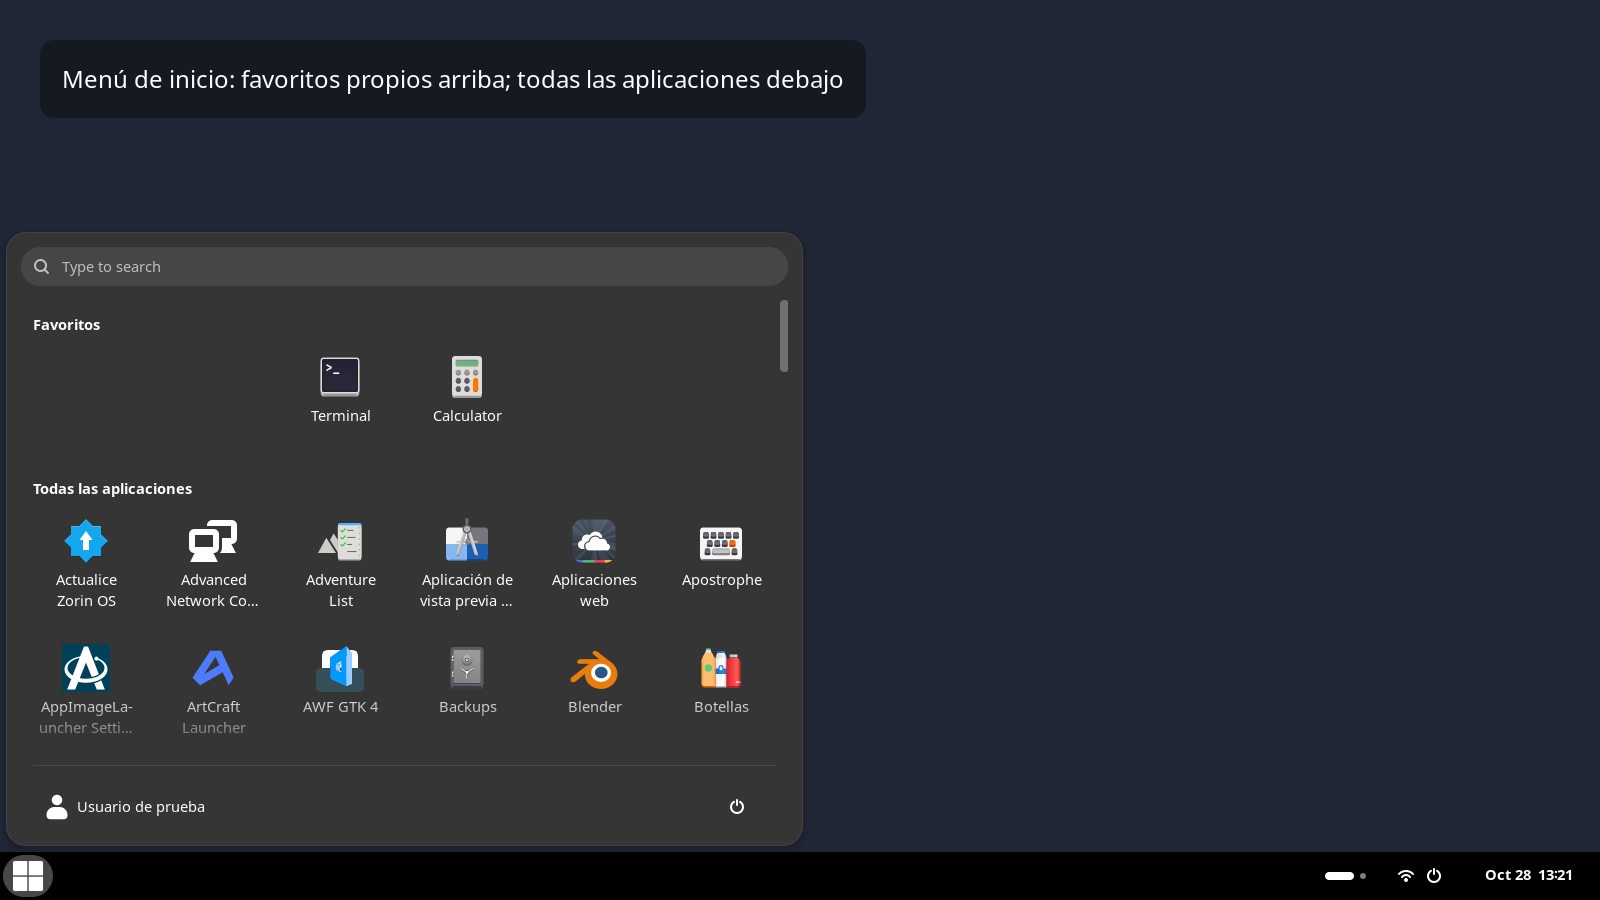
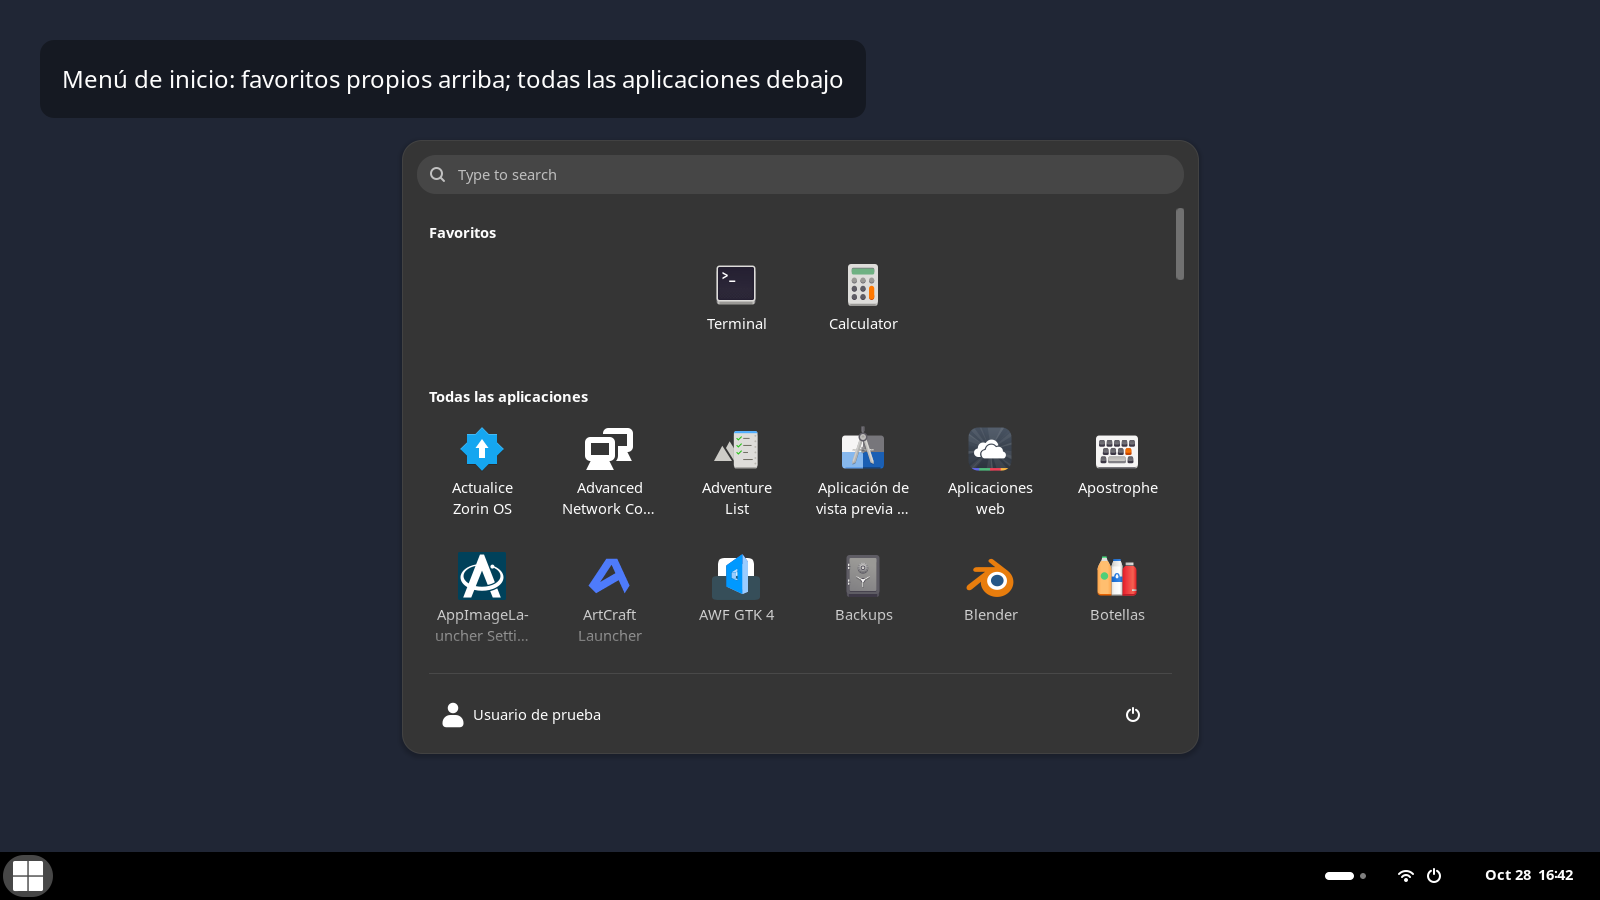
Center Start menu on its monitor independently of taskbar position

diff --git a/scripts/demo-extension.js b/scripts/demo-extension.js
@@ -29,6 +29,16 @@ export default class Demo extends Extension {
   sanitize(menu._layout._userButton);
   const avatar=menu._layout._userButton?._avatar;
   if(avatar){avatar.set_style('');avatar.set_child(new St.Icon({icon_name:'avatar-default-symbolic',icon_size:28}));}
+  const assertCentered=()=>{
+    const [x,y]=menu.actor.get_transformed_position();const [w,h]=menu.actor.get_transformed_size();
+    const monitor=Main.layoutManager.primaryMonitor;
+    if(Math.abs(x+w/2-(monitor.x+monitor.width/2))>2 || Math.abs(y+h/2-(monitor.y+monitor.height/2))>2)
+      throw Error('Menu not centered: '+JSON.stringify({x,y,w,h,monitor}));
+  };
+  assertCentered();
+  const oldTranslation=menu.sourceActor.translation_x;
+  menu.sourceActor.translation_x=oldTranslation+100;menu.actor.queue_relayout();await wait(350);assertCentered();
+  menu.sourceActor.translation_x=oldTranslation;menu.actor.queue_relayout();await wait(350);assertCentered();
   await this.shot('01-menu-favoritos','Menú de inicio: favoritos propios arriba; todas las aplicaciones debajo');
   const button=menu._layout._appsSection._favoriteWidgets[1].get_children()[0];
   button.popupMenu();await this.shot('02-menu-clic-derecho','Clic derecho: agregar o quitar favoritos solo del inicio');button._menu?.close();menu.close();

diff --git a/scripts/customize.py b/scripts/customize.py
@@ -1,6 +1,6 @@
 #!/usr/bin/env python3
 """Checked, reversible installation of the Zorin Menu/Taskbar customizations."""
-import argparse, datetime, hashlib, json, os, shutil, subprocess, tempfile
+import argparse, datetime, hashlib, json, os, re, shutil, subprocess, tempfile
 from pathlib import Path
 REPO = Path(__file__).resolve().parents[1]
 COMPAT = json.loads((REPO / 'compatibility.json').read_text())
@@ -28,15 +28,18 @@ def prepare_component(name, system_root, output):
         states.append(state)
         if state == 'unknown':
             raise RuntimeError(f'{name}: versión no compatible: {source / filename}. No se modificó el sistema.')
-    if len(set(states)) != 1:
-        raise RuntimeError(f'{name}: instalación parcial o mezclada; requiere revisión manual.')
     output.mkdir(parents=True)
     for filename in info['files']:
         target = output / filename
         target.parent.mkdir(parents=True, exist_ok=True)
         shutil.copyfile(source / filename, target)
-    if states[0] == 'before':
-        subprocess.run(['patch', '--batch', '--fuzz=0', '-p1', '-i', str(REPO / 'patches' / (name + '.patch'))], cwd=output, check=True, capture_output=True)
+    pending = {filename for filename, state in zip(info['files'], states) if state == 'before'}
+    if pending:
+        sections = re.split(r'(?=^--- a/)', (REPO / 'patches' / (name + '.patch')).read_text(), flags=re.MULTILINE)
+        selected = ''.join(section for section in sections if section.startswith('--- a/') and section.splitlines()[0][6:] in pending)
+        if not selected:
+            raise RuntimeError('No hay parche para los archivos pendientes.')
+        subprocess.run(['patch', '--batch', '--fuzz=0', '-p1'], input=selected, text=True, cwd=output, check=True, capture_output=True)
     for filename, hashes in info['files'].items():
         if digest(output / filename) != hashes['after']:
             raise RuntimeError('El parche no produjo el resultado esperado: ' + filename)

diff --git a/README.md b/README.md
@@ -4,7 +4,7 @@ Receta reproducible de la personalización realizada en **Zorin OS 18.1, GNOME S
 
 ## Qué hace
 
-1. **Menú de inicio:** una sección «Favoritos» encima de «Todas las aplicaciones»; su lista es independiente de la barra. Clic derecho → **Agregar/Quitar de favoritos del inicio**.
+1. **Menú de inicio:** una sección «Favoritos» encima de «Todas las aplicaciones»; su lista es independiente de la barra. El menú se abre siempre en el centro horizontal y vertical de su monitor, sin seguir al botón de inicio. Clic derecho → **Agregar/Quitar de favoritos del inicio**.
 2. **Barra de tareas:** normalmente muestra solo aplicaciones con ventanas abiertas, incluidas las minimizadas. Al pasar el mouse por un **espacio vacío**, aparecen los favoritos en la misma barra. Se ocultan al salir. No hay botón `+` ni ventana desplegable.
 3. **Zonas excluidas:** inicio, mostrar aplicaciones, reloj y grupos de indicadores no activan el efecto, incluidos los huecos internos de esos grupos.
 4. **Animación:** entrada escalonada por opacidad y desplazamiento; corrección explícita del tamaño final para evitar iconos que queden pequeños.

diff --git a/docs/ARCHITECTURE.md b/docs/ARCHITECTURE.md
@@ -46,3 +46,7 @@ El entorno XDG y la dirección de D-Bus se aíslan **antes de lanzar el daemon**
 `wallpaper.py` extrae todos los recursos del tema activo, reemplaza únicamente la imagen del fondo, recompila y compara cada recurso. Solo acepta la estructura comprobada de Zorin. `apply` registra una alternativa propia; `restore` vuelve a la alternativa anterior.
 
 El PNG no ejecuta desenfoque en vivo. Es una captura del fondo ya renderizado; cambiar la resolución o el wallpaper requiere regenerarlo.
+
+## Posición centrada del inicio
+
+Desde v1.1.0, `menu.js` ajusta el origen de la asignación de BoxPointer en cada redistribución, después del cálculo original de GNOME. El centro se calcula con el monitor que contiene el botón de inicio, en ambos ejes; se limita al área de trabajo cuando el tamaño del menú no permite un centrado completo. No se usa la posición horizontal del botón para ubicar el menú. Cambiar la búsqueda, el contenido o los iconos de la barra provoca un cálculo nuevo.

diff --git a/docs/INSTALL.md b/docs/INSTALL.md
@@ -25,7 +25,7 @@ La sesión de GNOME, GDM y las extensiones de Zorin deben existir de antemano. E
 python3 scripts/customize.py doctor
 ```
 
-Cada archivo debe aparecer como `original compatible` o `personalizado compatible`. Un componente que mezcle estados o incluya un archivo desconocido requiere revisión. `prepare --components menu` no exige compatibilidad de la barra y viceversa.
+Cada archivo debe aparecer como `original compatible` o `personalizado compatible`. Cada archivo puede estar en su versión original o en la personalizada conocida; esto permite actualizar desde la versión anterior del repositorio. Un archivo desconocido requiere revisión. `prepare --components menu` no exige compatibilidad de la barra y viceversa.
 
 ## 2. Preparar sin privilegios
 

diff --git a/docs/SCREENSHOTS.md b/docs/SCREENSHOTS.md
@@ -6,7 +6,7 @@ Las capturas muestran la implementación instalada en una sesión GNOME 46 **ais
 
 ![Menú de inicio](images/01-menu-favoritos.png)
 
-La sección superior usa su propio almacenamiento. Debajo permanece la lista completa. Los favoritos elegidos para esta captura difieren de los de la barra para mostrar la independencia de las dos listas.
+El menú está centrado horizontal y verticalmente, independientemente de la posición del botón de inicio. La sección superior usa su propio almacenamiento. Debajo permanece la lista completa. Los favoritos elegidos para esta captura difieren de los de la barra para mostrar la independencia de las dos listas.
 
 ## 2. Acción del menú de inicio
 

diff --git a/docs/VALIDATION.md b/docs/VALIDATION.md
@@ -51,3 +51,5 @@ python3 scripts/render_blur.py --image docs/demo-wallpaper.svg \
 ```
 
 Son capturas reales de un fondo renderizado por GNOME. No se modifica el wallpaper personal ni se aplica un cambio al gestor de inicio de sesión durante esta prueba.
+
+Desde v1.1.0, la demostración comprueba numéricamente que el centro del menú coincide con el centro del monitor (tolerancia de dos píxeles), mueve temporalmente el botón de inicio y comprueba que el menú permanece centrado. Las capturas 01 y 02 se actualizaron con este comportamiento.
